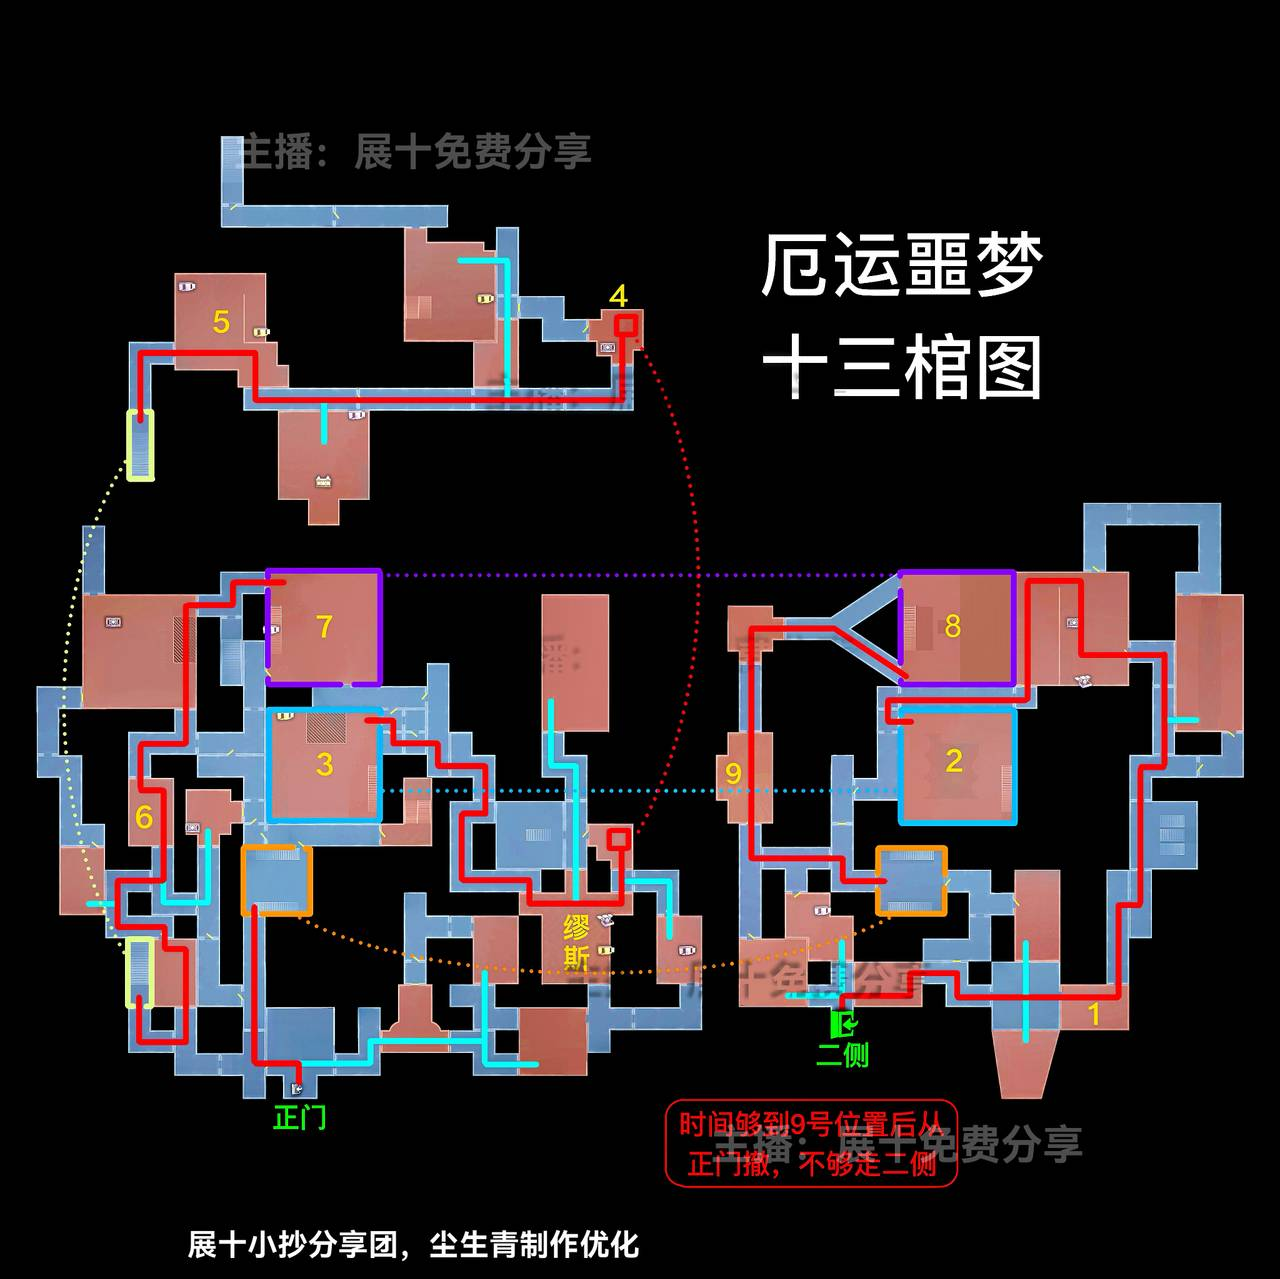
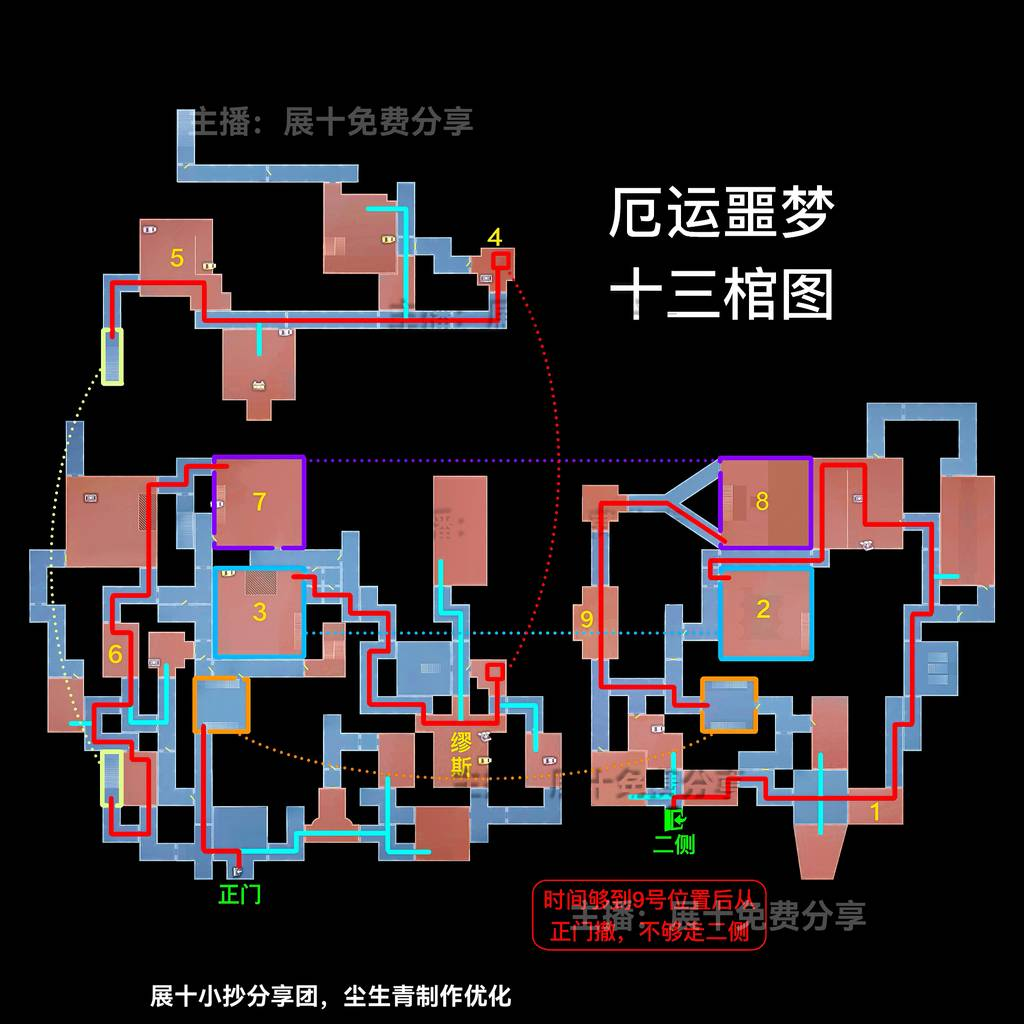
feat: 噩梦路线升级13.6（全棺版新增Z/┓形状，速刷版换图）
- 全棺版13.4→13.6：新增形状 Z（上路.jpg）、┓（左路右路.jpg）；┗ 的 上路.jpg 改为 上路右路.jpg；
  ▃▃ 增 上路右路.jpg；▌ 增 上路下路.jpg、上路下路右路.jpg
- 速刷版13.4→13.6：上左右路 删右s、增右┛/右▟▘/右▟▘2；上左路 增上┗┓；
  左右路 删右s/右┛2，增右┛（相似图2）/右┛（相似图3）/右┻┳/右▟▘
- 新增14张、删除4张、1张改名重出；本地分包与云存储均已同步（cloudAssets 193 条）
- 验收：validate 1530 checks / smoke SMOKE_ALL_OK / fault-injection 5/5 / release-check RELEASE_CHECK_OK

diff --git a/wx-id5-strategy/data/cloudAssets.js b/wx-id5-strategy/data/cloudAssets.js
@@ -120,34 +120,44 @@ module.exports = {
   "maps/e_yun_zhi_nv/zhanshi/hard-full/横Y/侧门在斜左上/斜左下路右路 右■.jpg": "cloud://cloud1-d0gmgc29t00d235d8.636c-cloud1-d0gmgc29t00d235d8-1465150433/maps/e_yun_zhi_nv/zhanshi/hard-full/横Y/侧门在斜左上/斜左下路右路 右■.jpg",
   "maps/e_yun_zhi_nv/zhanshi/nightmare-full/┏/下路   下Z.jpg": "cloud://cloud1-d0gmgc29t00d235d8.636c-cloud1-d0gmgc29t00d235d8-1465150433/maps/e_yun_zhi_nv/zhanshi/nightmare-full/┏/下路   下Z.jpg",
   "maps/e_yun_zhi_nv/zhanshi/nightmare-full/┏/下路   下ㅢ一.jpg": "cloud://cloud1-d0gmgc29t00d235d8.636c-cloud1-d0gmgc29t00d235d8-1465150433/maps/e_yun_zhi_nv/zhanshi/nightmare-full/┏/下路   下ㅢ一.jpg",
-  "maps/e_yun_zhi_nv/zhanshi/nightmare-full/┗/上路.jpg": "cloud://cloud1-d0gmgc29t00d235d8.636c-cloud1-d0gmgc29t00d235d8-1465150433/maps/e_yun_zhi_nv/zhanshi/nightmare-full/┗/上路.jpg",
+  "maps/e_yun_zhi_nv/zhanshi/nightmare-full/┓/左路右路.jpg": "cloud://cloud1-d0gmgc29t00d235d8.636c-cloud1-d0gmgc29t00d235d8-1465150433/maps/e_yun_zhi_nv/zhanshi/nightmare-full/┓/左路右路.jpg",
+  "maps/e_yun_zhi_nv/zhanshi/nightmare-full/┗/上路右路.jpg": "cloud://cloud1-d0gmgc29t00d235d8.636c-cloud1-d0gmgc29t00d235d8-1465150433/maps/e_yun_zhi_nv/zhanshi/nightmare-full/┗/上路右路.jpg",
   "maps/e_yun_zhi_nv/zhanshi/nightmare-full/┗/右路（二号路线）.jpg": "cloud://cloud1-d0gmgc29t00d235d8.636c-cloud1-d0gmgc29t00d235d8-1465150433/maps/e_yun_zhi_nv/zhanshi/nightmare-full/┗/右路（二号路线）.jpg",
   "maps/e_yun_zhi_nv/zhanshi/nightmare-full/┗/右路（一号路线）.jpg": "cloud://cloud1-d0gmgc29t00d235d8.636c-cloud1-d0gmgc29t00d235d8-1465150433/maps/e_yun_zhi_nv/zhanshi/nightmare-full/┗/右路（一号路线）.jpg",
   "maps/e_yun_zhi_nv/zhanshi/nightmare-full/┗/右路两张图解释.jpg": "cloud://cloud1-d0gmgc29t00d235d8.636c-cloud1-d0gmgc29t00d235d8-1465150433/maps/e_yun_zhi_nv/zhanshi/nightmare-full/┗/右路两张图解释.jpg",
   "maps/e_yun_zhi_nv/zhanshi/nightmare-full/┫/上路左路.jpg": "cloud://cloud1-d0gmgc29t00d235d8.636c-cloud1-d0gmgc29t00d235d8-1465150433/maps/e_yun_zhi_nv/zhanshi/nightmare-full/┫/上路左路.jpg",
   "maps/e_yun_zhi_nv/zhanshi/nightmare-full/┫/上路左路右路.jpg": "cloud://cloud1-d0gmgc29t00d235d8.636c-cloud1-d0gmgc29t00d235d8-1465150433/maps/e_yun_zhi_nv/zhanshi/nightmare-full/┫/上路左路右路.jpg",
   "maps/e_yun_zhi_nv/zhanshi/nightmare-full/┳/左路下路.jpg": "cloud://cloud1-d0gmgc29t00d235d8.636c-cloud1-d0gmgc29t00d235d8-1465150433/maps/e_yun_zhi_nv/zhanshi/nightmare-full/┳/左路下路.jpg",
+  "maps/e_yun_zhi_nv/zhanshi/nightmare-full/▃▃/上路右路.jpg": "cloud://cloud1-d0gmgc29t00d235d8.636c-cloud1-d0gmgc29t00d235d8-1465150433/maps/e_yun_zhi_nv/zhanshi/nightmare-full/▃▃/上路右路.jpg",
   "maps/e_yun_zhi_nv/zhanshi/nightmare-full/▃▃/左路.jpg": "cloud://cloud1-d0gmgc29t00d235d8.636c-cloud1-d0gmgc29t00d235d8-1465150433/maps/e_yun_zhi_nv/zhanshi/nightmare-full/▃▃/左路.jpg",
+  "maps/e_yun_zhi_nv/zhanshi/nightmare-full/▌/上路下路.jpg": "cloud://cloud1-d0gmgc29t00d235d8.636c-cloud1-d0gmgc29t00d235d8-1465150433/maps/e_yun_zhi_nv/zhanshi/nightmare-full/▌/上路下路.jpg",
+  "maps/e_yun_zhi_nv/zhanshi/nightmare-full/▌/上路下路右路.jpg": "cloud://cloud1-d0gmgc29t00d235d8.636c-cloud1-d0gmgc29t00d235d8-1465150433/maps/e_yun_zhi_nv/zhanshi/nightmare-full/▌/上路下路右路.jpg",
   "maps/e_yun_zhi_nv/zhanshi/nightmare-full/▌/下路右路.jpg": "cloud://cloud1-d0gmgc29t00d235d8.636c-cloud1-d0gmgc29t00d235d8-1465150433/maps/e_yun_zhi_nv/zhanshi/nightmare-full/▌/下路右路.jpg",
   "maps/e_yun_zhi_nv/zhanshi/nightmare-full/▌/下路左路.jpg": "cloud://cloud1-d0gmgc29t00d235d8.636c-cloud1-d0gmgc29t00d235d8-1465150433/maps/e_yun_zhi_nv/zhanshi/nightmare-full/▌/下路左路.jpg",
   "maps/e_yun_zhi_nv/zhanshi/nightmare-full/▌/左路右路.jpg": "cloud://cloud1-d0gmgc29t00d235d8.636c-cloud1-d0gmgc29t00d235d8-1465150433/maps/e_yun_zhi_nv/zhanshi/nightmare-full/▌/左路右路.jpg",
   "maps/e_yun_zhi_nv/zhanshi/nightmare-full/噩梦全棺版看法图文教学.jpg": "cloud://cloud1-d0gmgc29t00d235d8.636c-cloud1-d0gmgc29t00d235d8-1465150433/maps/e_yun_zhi_nv/zhanshi/nightmare-full/噩梦全棺版看法图文教学.jpg",
+  "maps/e_yun_zhi_nv/zhanshi/nightmare-full/Z/上路.jpg": "cloud://cloud1-d0gmgc29t00d235d8.636c-cloud1-d0gmgc29t00d235d8-1465150433/maps/e_yun_zhi_nv/zhanshi/nightmare-full/Z/上路.jpg",
   "maps/e_yun_zhi_nv/zhanshi/nightmare-full/ㅢ一/左路上路下路.jpg": "cloud://cloud1-d0gmgc29t00d235d8.636c-cloud1-d0gmgc29t00d235d8-1465150433/maps/e_yun_zhi_nv/zhanshi/nightmare-full/ㅢ一/左路上路下路.jpg",
   "maps/e_yun_zhi_nv/zhanshi/nightmare-full/ㅢ一/左路下路右路.jpg": "cloud://cloud1-d0gmgc29t00d235d8.636c-cloud1-d0gmgc29t00d235d8-1465150433/maps/e_yun_zhi_nv/zhanshi/nightmare-full/ㅢ一/左路下路右路.jpg",
   "maps/e_yun_zhi_nv/zhanshi/nightmare/上右路/上右路   右┻┳.jpg": "cloud://cloud1-d0gmgc29t00d235d8.636c-cloud1-d0gmgc29t00d235d8-1465150433/maps/e_yun_zhi_nv/zhanshi/nightmare/上右路/上右路   右┻┳.jpg",
   "maps/e_yun_zhi_nv/zhanshi/nightmare/上右路/上右路   右┻┳2.jpg": "cloud://cloud1-d0gmgc29t00d235d8.636c-cloud1-d0gmgc29t00d235d8-1465150433/maps/e_yun_zhi_nv/zhanshi/nightmare/上右路/上右路   右┻┳2.jpg",
   "maps/e_yun_zhi_nv/zhanshi/nightmare/上右路/上右路   右▃▃.jpg": "cloud://cloud1-d0gmgc29t00d235d8.636c-cloud1-d0gmgc29t00d235d8-1465150433/maps/e_yun_zhi_nv/zhanshi/nightmare/上右路/上右路   右▃▃.jpg",
   "maps/e_yun_zhi_nv/zhanshi/nightmare/上右路/上右路   右一.jpg": "cloud://cloud1-d0gmgc29t00d235d8.636c-cloud1-d0gmgc29t00d235d8-1465150433/maps/e_yun_zhi_nv/zhanshi/nightmare/上右路/上右路   右一.jpg",
+  "maps/e_yun_zhi_nv/zhanshi/nightmare/上左路/上左路   上┗┓.jpg": "cloud://cloud1-d0gmgc29t00d235d8.636c-cloud1-d0gmgc29t00d235d8-1465150433/maps/e_yun_zhi_nv/zhanshi/nightmare/上左路/上左路   上┗┓.jpg",
   "maps/e_yun_zhi_nv/zhanshi/nightmare/上左路/上左路   上红┫.jpg": "cloud://cloud1-d0gmgc29t00d235d8.636c-cloud1-d0gmgc29t00d235d8-1465150433/maps/e_yun_zhi_nv/zhanshi/nightmare/上左路/上左路   上红┫.jpg",
   "maps/e_yun_zhi_nv/zhanshi/nightmare/上左路/上左路   上红┫2.jpg": "cloud://cloud1-d0gmgc29t00d235d8.636c-cloud1-d0gmgc29t00d235d8-1465150433/maps/e_yun_zhi_nv/zhanshi/nightmare/上左路/上左路   上红┫2.jpg",
   "maps/e_yun_zhi_nv/zhanshi/nightmare/上左路/上左路   上I.jpg": "cloud://cloud1-d0gmgc29t00d235d8.636c-cloud1-d0gmgc29t00d235d8-1465150433/maps/e_yun_zhi_nv/zhanshi/nightmare/上左路/上左路   上I.jpg",
+  "maps/e_yun_zhi_nv/zhanshi/nightmare/上左右路/上左右路   右┛.jpg": "cloud://cloud1-d0gmgc29t00d235d8.636c-cloud1-d0gmgc29t00d235d8-1465150433/maps/e_yun_zhi_nv/zhanshi/nightmare/上左右路/上左右路   右┛.jpg",
+  "maps/e_yun_zhi_nv/zhanshi/nightmare/上左右路/上左右路   右▟▘.jpg": "cloud://cloud1-d0gmgc29t00d235d8.636c-cloud1-d0gmgc29t00d235d8-1465150433/maps/e_yun_zhi_nv/zhanshi/nightmare/上左右路/上左右路   右▟▘.jpg",
+  "maps/e_yun_zhi_nv/zhanshi/nightmare/上左右路/上左右路   右▟▘2.jpg": "cloud://cloud1-d0gmgc29t00d235d8.636c-cloud1-d0gmgc29t00d235d8-1465150433/maps/e_yun_zhi_nv/zhanshi/nightmare/上左右路/上左右路   右▟▘2.jpg",
   "maps/e_yun_zhi_nv/zhanshi/nightmare/上左右路/上左右路   右I.jpg": "cloud://cloud1-d0gmgc29t00d235d8.636c-cloud1-d0gmgc29t00d235d8-1465150433/maps/e_yun_zhi_nv/zhanshi/nightmare/上左右路/上左右路   右I.jpg",
-  "maps/e_yun_zhi_nv/zhanshi/nightmare/上左右路/上左右路   右s.jpg": "cloud://cloud1-d0gmgc29t00d235d8.636c-cloud1-d0gmgc29t00d235d8-1465150433/maps/e_yun_zhi_nv/zhanshi/nightmare/上左右路/上左右路   右s.jpg",
   "maps/e_yun_zhi_nv/zhanshi/nightmare/上左右路/上左右路  右└┐.jpg": "cloud://cloud1-d0gmgc29t00d235d8.636c-cloud1-d0gmgc29t00d235d8-1465150433/maps/e_yun_zhi_nv/zhanshi/nightmare/上左右路/上左右路  右└┐.jpg",
   "maps/e_yun_zhi_nv/zhanshi/nightmare/速刷版看法图文教学.jpg": "cloud://cloud1-d0gmgc29t00d235d8.636c-cloud1-d0gmgc29t00d235d8-1465150433/maps/e_yun_zhi_nv/zhanshi/nightmare/速刷版看法图文教学.jpg",
   "maps/e_yun_zhi_nv/zhanshi/nightmare/左右路/左右路   右┛.jpg": "cloud://cloud1-d0gmgc29t00d235d8.636c-cloud1-d0gmgc29t00d235d8-1465150433/maps/e_yun_zhi_nv/zhanshi/nightmare/左右路/左右路   右┛.jpg",
-  "maps/e_yun_zhi_nv/zhanshi/nightmare/左右路/左右路   右┛2.jpg": "cloud://cloud1-d0gmgc29t00d235d8.636c-cloud1-d0gmgc29t00d235d8-1465150433/maps/e_yun_zhi_nv/zhanshi/nightmare/左右路/左右路   右┛2.jpg",
-  "maps/e_yun_zhi_nv/zhanshi/nightmare/左右路/左右路   右s.jpg": "cloud://cloud1-d0gmgc29t00d235d8.636c-cloud1-d0gmgc29t00d235d8-1465150433/maps/e_yun_zhi_nv/zhanshi/nightmare/左右路/左右路   右s.jpg",
+  "maps/e_yun_zhi_nv/zhanshi/nightmare/左右路/左右路   右┛（相似图2）.jpg": "cloud://cloud1-d0gmgc29t00d235d8.636c-cloud1-d0gmgc29t00d235d8-1465150433/maps/e_yun_zhi_nv/zhanshi/nightmare/左右路/左右路   右┛（相似图2）.jpg",
+  "maps/e_yun_zhi_nv/zhanshi/nightmare/左右路/左右路   右┛（相似图3）.jpg": "cloud://cloud1-d0gmgc29t00d235d8.636c-cloud1-d0gmgc29t00d235d8-1465150433/maps/e_yun_zhi_nv/zhanshi/nightmare/左右路/左右路   右┛（相似图3）.jpg",
+  "maps/e_yun_zhi_nv/zhanshi/nightmare/左右路/左右路   右┻┳.jpg": "cloud://cloud1-d0gmgc29t00d235d8.636c-cloud1-d0gmgc29t00d235d8-1465150433/maps/e_yun_zhi_nv/zhanshi/nightmare/左右路/左右路   右┻┳.jpg",
+  "maps/e_yun_zhi_nv/zhanshi/nightmare/左右路/左右路   右▟▘.jpg": "cloud://cloud1-d0gmgc29t00d235d8.636c-cloud1-d0gmgc29t00d235d8-1465150433/maps/e_yun_zhi_nv/zhanshi/nightmare/左右路/左右路   右▟▘.jpg",
   "pkg-easy/┏/侧门在右/左路下路.jpg": "cloud://cloud1-d0gmgc29t00d235d8.636c-cloud1-d0gmgc29t00d235d8-1465150433/pkg-easy/assets/┏/侧门在右/左路下路.jpg",
   "pkg-easy/┓/侧门在上中/左路下路.jpg": "cloud://cloud1-d0gmgc29t00d235d8.636c-cloud1-d0gmgc29t00d235d8-1465150433/pkg-easy/assets/┓/侧门在上中/左路下路.jpg",
   "pkg-easy/┓/侧门在左/下路.jpg": "cloud://cloud1-d0gmgc29t00d235d8.636c-cloud1-d0gmgc29t00d235d8-1465150433/pkg-easy/assets/┓/侧门在左/下路.jpg",

diff --git a/wx-id5-strategy/data/imageMeta.js b/wx-id5-strategy/data/imageMeta.js
@@ -434,120 +434,160 @@ module.exports = {
     "h": 454
   },
   "pkg-zhanshi-nightmare/assets/上右路/上右路   右┻┳.jpg": {
-    "w": 1280,
-    "h": 1279
+    "w": 1024,
+    "h": 1024
   },
   "pkg-zhanshi-nightmare/assets/上右路/上右路   右┻┳2.jpg": {
-    "w": 1280,
-    "h": 1279
+    "w": 1024,
+    "h": 1024
   },
   "pkg-zhanshi-nightmare/assets/上右路/上右路   右▃▃.jpg": {
-    "w": 1280,
-    "h": 1279
+    "w": 1024,
+    "h": 1024
   },
   "pkg-zhanshi-nightmare/assets/上右路/上右路   右一.jpg": {
-    "w": 1280,
-    "h": 1279
+    "w": 1024,
+    "h": 1024
   },
   "pkg-zhanshi-nightmare/assets/上左右路/上左右路   右I.jpg": {
-    "w": 1280,
-    "h": 1279
-  },
-  "pkg-zhanshi-nightmare/assets/上左右路/上左右路   右s.jpg": {
-    "w": 1280,
-    "h": 1279
+    "w": 1024,
+    "h": 1024
   },
   "pkg-zhanshi-nightmare/assets/上左右路/上左右路  右└┐.jpg": {
-    "w": 1280,
-    "h": 1279
+    "w": 1024,
+    "h": 1024
+  },
+  "pkg-zhanshi-nightmare/assets/上左右路/上左右路   右┛.jpg": {
+    "w": 1024,
+    "h": 1024
+  },
+  "pkg-zhanshi-nightmare/assets/上左右路/上左右路   右▟▘.jpg": {
+    "w": 1024,
+    "h": 1024
+  },
+  "pkg-zhanshi-nightmare/assets/上左右路/上左右路   右▟▘2.jpg": {
+    "w": 1024,
+    "h": 1024
   },
   "pkg-zhanshi-nightmare/assets/上左路/上左路   上红┫.jpg": {
-    "w": 1280,
-    "h": 1279
+    "w": 1024,
+    "h": 1024
   },
   "pkg-zhanshi-nightmare/assets/上左路/上左路   上红┫2.jpg": {
-    "w": 1280,
-    "h": 1279
+    "w": 1024,
+    "h": 1024
   },
   "pkg-zhanshi-nightmare/assets/上左路/上左路   上I.jpg": {
-    "w": 1280,
-    "h": 1279
+    "w": 1024,
+    "h": 1024
+  },
+  "pkg-zhanshi-nightmare/assets/上左路/上左路   上┗┓.jpg": {
+    "w": 1024,
+    "h": 1024
   },
   "pkg-zhanshi-nightmare/assets/左右路/左右路   右┛.jpg": {
-    "w": 1280,
-    "h": 1279
+    "w": 1024,
+    "h": 1024
   },
-  "pkg-zhanshi-nightmare/assets/左右路/左右路   右┛2.jpg": {
-    "w": 1280,
-    "h": 1279
+  "pkg-zhanshi-nightmare/assets/左右路/左右路   右┛（相似图2）.jpg": {
+    "w": 1024,
+    "h": 1024
   },
-  "pkg-zhanshi-nightmare/assets/左右路/左右路   右s.jpg": {
-    "w": 1280,
-    "h": 1279
+  "pkg-zhanshi-nightmare/assets/左右路/左右路   右┛（相似图3）.jpg": {
+    "w": 1024,
+    "h": 1024
+  },
+  "pkg-zhanshi-nightmare/assets/左右路/左右路   右┻┳.jpg": {
+    "w": 1024,
+    "h": 1024
+  },
+  "pkg-zhanshi-nightmare/assets/左右路/左右路   右▟▘.jpg": {
+    "w": 1024,
+    "h": 1024
   },
   "pkg-zhanshi-nightmare-full/assets/噩梦全棺版看法图文教学.jpg": {
     "w": 354,
     "h": 390
   },
+  "pkg-zhanshi-nightmare-full/assets/Z/上路.jpg": {
+    "w": 1024,
+    "h": 1024
+  },
   "pkg-zhanshi-nightmare-full/assets/┏/下路   下Z.jpg": {
-    "w": 1280,
-    "h": 1279
+    "w": 1024,
+    "h": 1024
   },
   "pkg-zhanshi-nightmare-full/assets/┏/下路   下ㅢ一.jpg": {
-    "w": 1280,
-    "h": 1279
+    "w": 1024,
+    "h": 1024
   },
-  "pkg-zhanshi-nightmare-full/assets/┗/上路.jpg": {
-    "w": 1280,
-    "h": 1279
+  "pkg-zhanshi-nightmare-full/assets/┓/左路右路.jpg": {
+    "w": 1024,
+    "h": 1024
+  },
+  "pkg-zhanshi-nightmare-full/assets/┗/上路右路.jpg": {
+    "w": 1024,
+    "h": 1024
   },
   "pkg-zhanshi-nightmare-full/assets/┗/右路（二号路线）.jpg": {
-    "w": 1280,
-    "h": 1279
+    "w": 1024,
+    "h": 1024
   },
   "pkg-zhanshi-nightmare-full/assets/┗/右路（一号路线）.jpg": {
-    "w": 1280,
-    "h": 1279
+    "w": 1024,
+    "h": 1024
   },
   "pkg-zhanshi-nightmare-full/assets/┗/右路两张图解释.jpg": {
     "w": 209,
     "h": 97
   },
   "pkg-zhanshi-nightmare-full/assets/┫/上路左路.jpg": {
-    "w": 1280,
-    "h": 1279
+    "w": 1024,
+    "h": 1024
   },
   "pkg-zhanshi-nightmare-full/assets/┫/上路左路右路.jpg": {
-    "w": 1280,
-    "h": 1279
+    "w": 1024,
+    "h": 1024
   },
   "pkg-zhanshi-nightmare-full/assets/┳/左路下路.jpg": {
-    "w": 1280,
-    "h": 1279
+    "w": 1024,
+    "h": 1024
   },
   "pkg-zhanshi-nightmare-full/assets/▃▃/左路.jpg": {
-    "w": 1280,
-    "h": 1279
+    "w": 1024,
+    "h": 1024
+  },
+  "pkg-zhanshi-nightmare-full/assets/▃▃/上路右路.jpg": {
+    "w": 1024,
+    "h": 1024
   },
   "pkg-zhanshi-nightmare-full/assets/▌/下路右路.jpg": {
-    "w": 1280,
-    "h": 1279
+    "w": 1024,
+    "h": 1024
   },
   "pkg-zhanshi-nightmare-full/assets/▌/下路左路.jpg": {
-    "w": 1280,
-    "h": 1279
+    "w": 1024,
+    "h": 1024
   },
   "pkg-zhanshi-nightmare-full/assets/▌/左路右路.jpg": {
-    "w": 1280,
-    "h": 1279
+    "w": 1024,
+    "h": 1024
+  },
+  "pkg-zhanshi-nightmare-full/assets/▌/上路下路.jpg": {
+    "w": 1024,
+    "h": 1024
+  },
+  "pkg-zhanshi-nightmare-full/assets/▌/上路下路右路.jpg": {
+    "w": 1024,
+    "h": 1024
   },
   "pkg-zhanshi-nightmare-full/assets/ㅢ一/左路上路下路.jpg": {
-    "w": 1280,
-    "h": 1279
+    "w": 1024,
+    "h": 1024
   },
   "pkg-zhanshi-nightmare-full/assets/ㅢ一/左路下路右路.jpg": {
-    "w": 1280,
-    "h": 1279
+    "w": 1024,
+    "h": 1024
   },
   "pkg-zhanshi-normal/assets/┏/侧门在下/右路.jpg": {
     "w": 1024,

diff --git a/wx-id5-strategy/data/localMapIndex.js b/wx-id5-strategy/data/localMapIndex.js
@@ -1421,13 +1421,15 @@ module.exports = {
           "difficulty": "nightmare",
           "variant": "full",
           "authorId": "zhanshi",
-          "name": "噩梦 · 全棺版13.4",
+          "name": "噩梦 · 全棺版13.6",
           "author": "展十版",
           "packageRoot": "pkg-zhanshi-nightmare-full",
           "assetNamespace": "maps/e_yun_zhi_nv/zhanshi/nightmare-full",
-          "shapeDir": "厄运噩梦（超清4k，展十版）/厄运噩梦（超清4k，全棺路线，展十版）全棺版13.4",
+          "shapeDir": "厄运噩梦（超清4k，展十版）/厄运噩梦（超清4k，全棺路线，展十版）全棺版13.6",
           "shapes": [
+            "Z",
             "┏",
+            "┓",
             "┗",
             "┫",
             "┳",
@@ -1436,15 +1438,25 @@ module.exports = {
             "ㅢ一"
           ],
           "shapeDetails": {
+            "Z": {
+              "rootFiles": [
+                "上路.jpg"
+              ]
+            },
             "┏": {
               "rootFiles": [
                 "下路   下Z.jpg",
                 "下路   下ㅢ一.jpg"
               ]
             },
+            "┓": {
+              "rootFiles": [
+                "左路右路.jpg"
+              ]
+            },
             "┗": {
               "rootFiles": [
-                "上路.jpg",
+                "上路右路.jpg",
                 "右路（二号路线）.jpg",
                 "右路（一号路线）.jpg",
                 "右路两张图解释.jpg"
@@ -1463,14 +1475,17 @@ module.exports = {
             },
             "▃▃": {
               "rootFiles": [
-                "左路.jpg"
+                "左路.jpg",
+                "上路右路.jpg"
               ]
             },
             "▌": {
               "rootFiles": [
                 "下路右路.jpg",
                 "下路左路.jpg",
-                "左路右路.jpg"
+                "左路右路.jpg",
+                "上路下路.jpg",
+                "上路下路右路.jpg"
               ]
             },
             "ㅢ一": {
@@ -1483,17 +1498,17 @@ module.exports = {
           "rootFiles": [
             "噩梦全棺版看法图文教学.jpg"
           ]
-        },
+},
 {
           "id": "zhanshi-nightmare",
           "legacyIds": [],
           "difficulty": "nightmare",
           "authorId": "zhanshi",
-          "name": "噩梦 · 速刷版13.4",
+          "name": "噩梦 · 速刷版13.6",
           "author": "展十版",
           "packageRoot": "pkg-zhanshi-nightmare",
           "assetNamespace": "maps/e_yun_zhi_nv/zhanshi/nightmare",
-          "shapeDir": "厄运噩梦（超清4k，展十版）/厄运噩梦（超清4k，速刷路线，展十版）速刷版13.4",
+          "shapeDir": "厄运噩梦（超清4k，展十版）/厄运噩梦（超清4k，速刷路线，展十版）速刷版13.6",
           "shapes": [
             "上右路",
             "上左右路",
@@ -1512,22 +1527,27 @@ module.exports = {
             "上左右路": {
               "rootFiles": [
                 "上左右路   右I.jpg",
-                "上左右路   右s.jpg",
-                "上左右路  右└┐.jpg"
+                "上左右路  右└┐.jpg",
+                "上左右路   右┛.jpg",
+                "上左右路   右▟▘.jpg",
+                "上左右路   右▟▘2.jpg"
               ]
             },
             "上左路": {
               "rootFiles": [
                 "上左路   上红┫.jpg",
                 "上左路   上红┫2.jpg",
-                "上左路   上I.jpg"
+                "上左路   上I.jpg",
+                "上左路   上┗┓.jpg"
               ]
             },
             "左右路": {
               "rootFiles": [
                 "左右路   右┛.jpg",
-                "左右路   右┛2.jpg",
-                "左右路   右s.jpg"
+                "左右路   右┛（相似图2）.jpg",
+                "左右路   右┛（相似图3）.jpg",
+                "左右路   右┻┳.jpg",
+                "左右路   右▟▘.jpg"
               ]
             }
           },
@@ -1535,7 +1555,7 @@ module.exports = {
             "速刷版看法图文教学.jpg"
           ],
           "variant": "fast"
-        },
+},
       {
         "id": "lianghapi-v0710",
         "legacyIds": [
